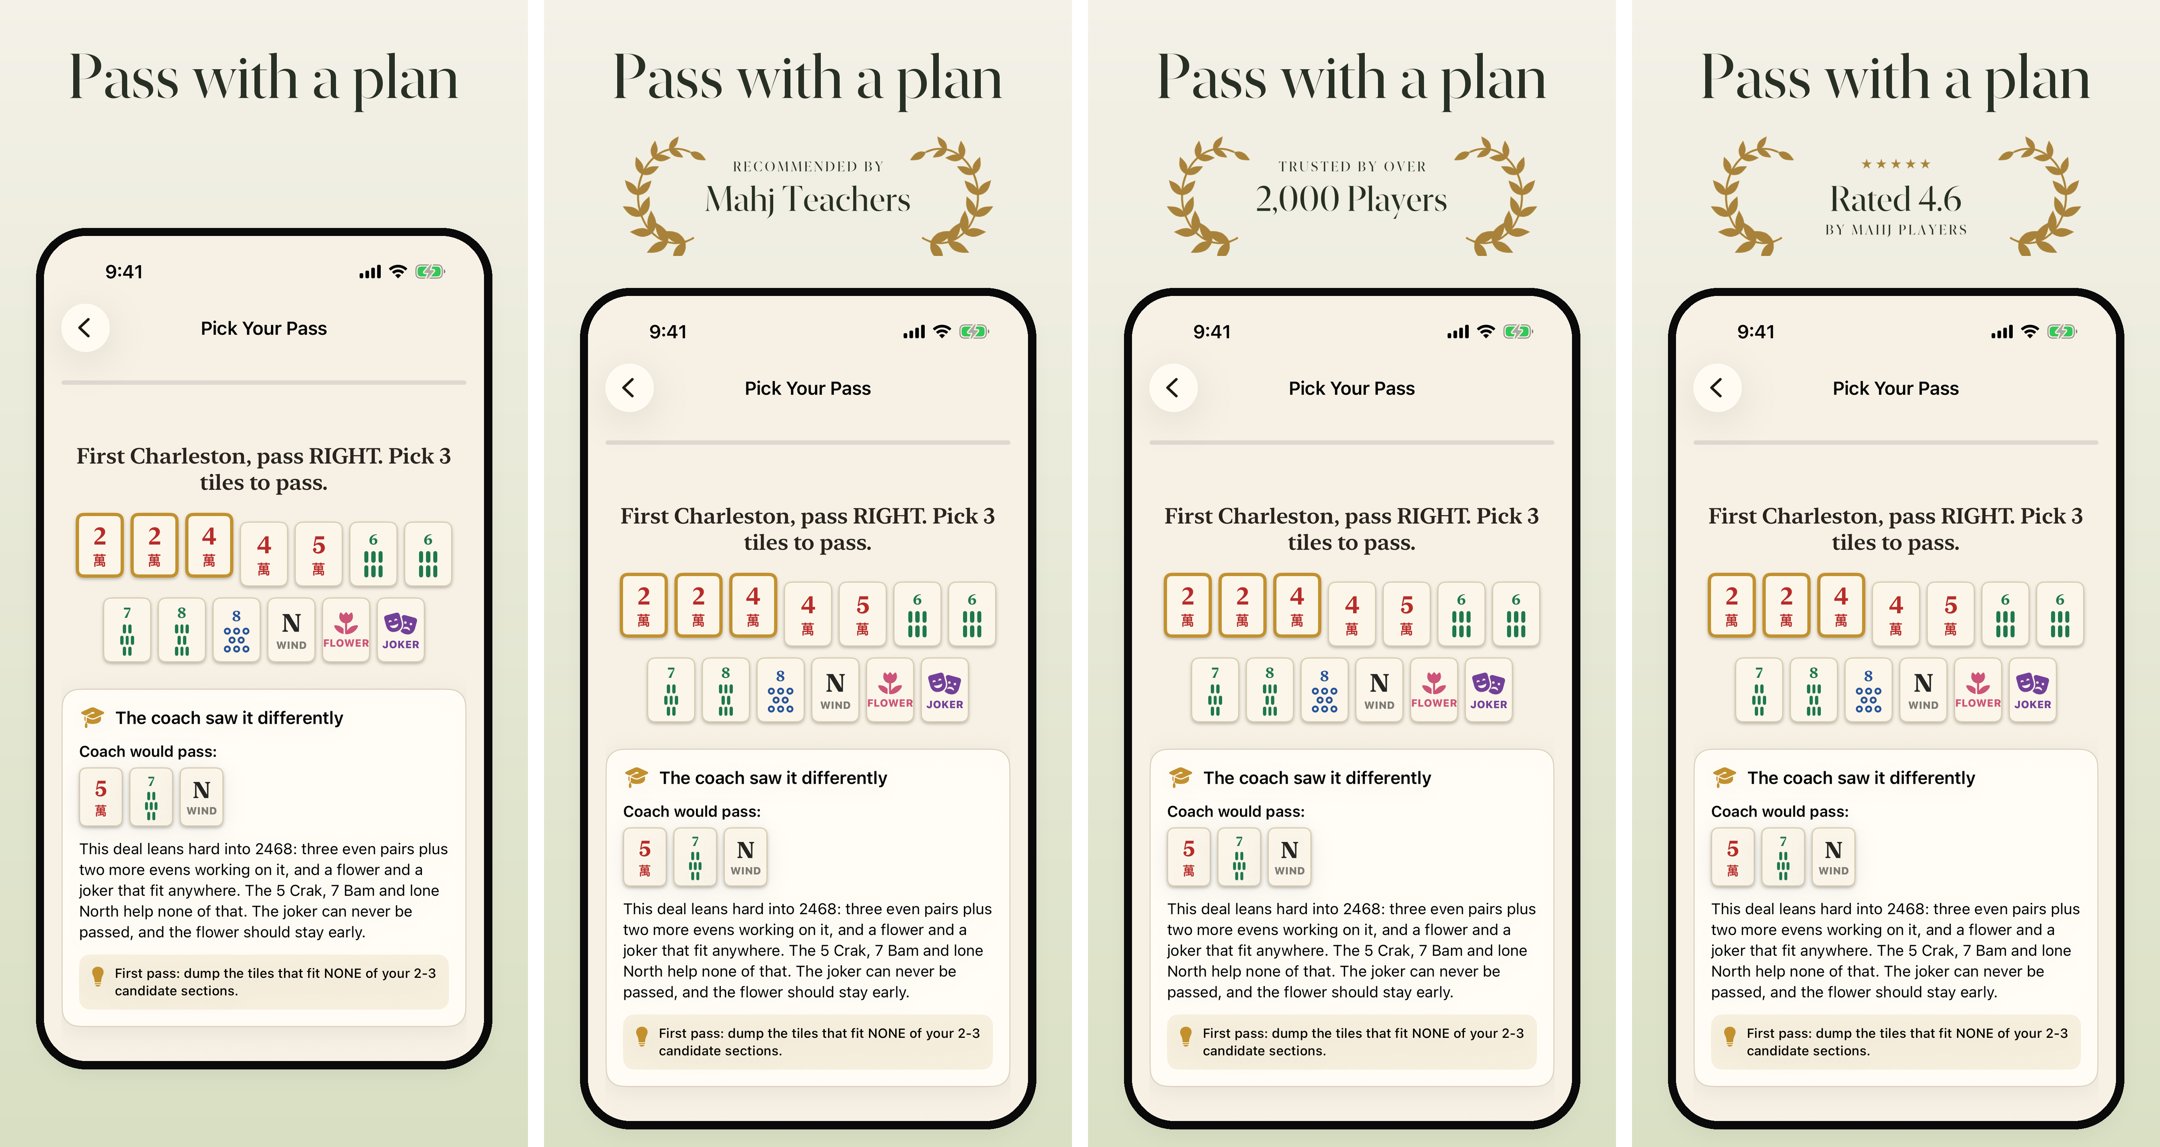
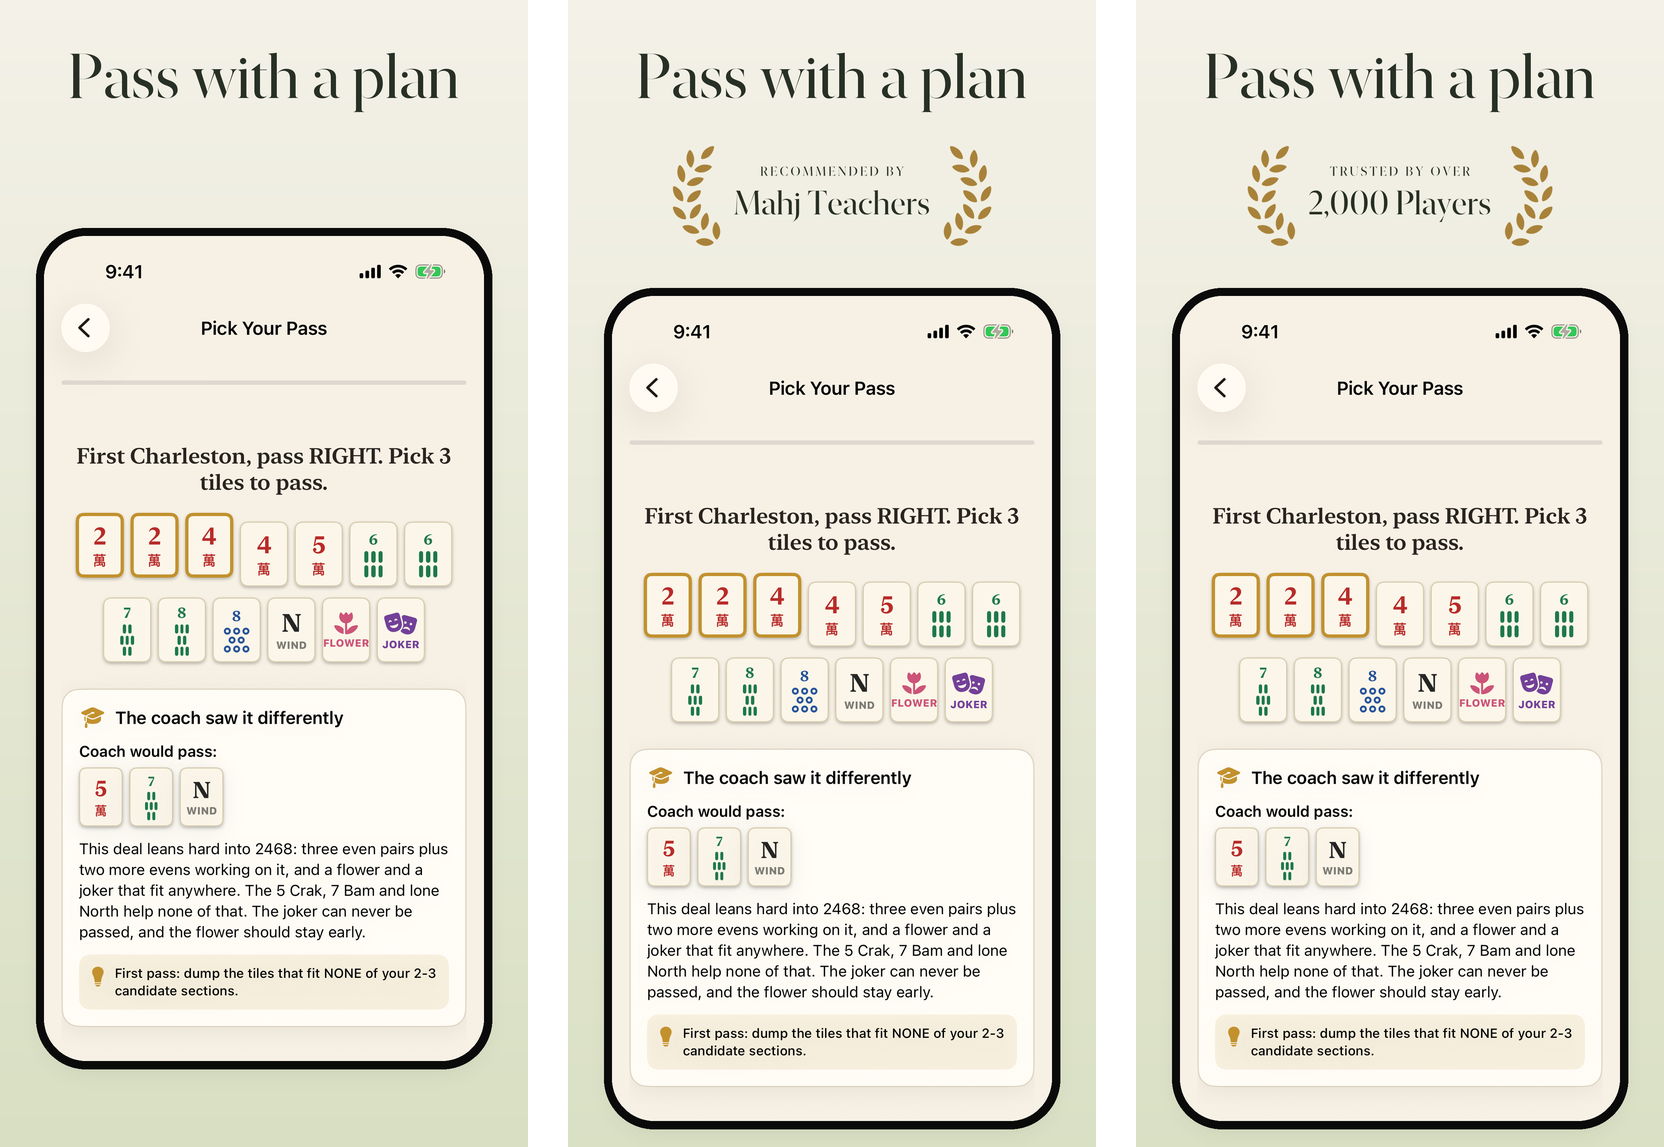
docs(ppo): redraw the Mahj laurel arms with Apple's laurel symbol, drop the rating arm

diff --git a/project-docs/ppo/laurel-2026-11/render_laurel.swift b/project-docs/ppo/laurel-2026-11/render_laurel.swift
@@ -1,0 +1,13 @@
+import AppKit
+for name in ["laurel.leading", "laurel.trailing"] {
+    let cfg = NSImage.SymbolConfiguration(pointSize: 900, weight: .regular)
+        .applying(NSImage.SymbolConfiguration(paletteColors: [NSColor(srgbRed: 168/255, green: 130/255, blue: 58/255, alpha: 1)]))
+    guard let img = NSImage(systemSymbolName: name, accessibilityDescription: nil)?.withSymbolConfiguration(cfg) else { print("missing \(name)"); continue }
+    let rep = NSBitmapImageRep(bitmapDataPlanes: nil, pixelsWide: Int(img.size.width), pixelsHigh: Int(img.size.height), bitsPerSample: 8, samplesPerPixel: 4, hasAlpha: true, isPlanar: false, colorSpaceName: .deviceRGB, bytesPerRow: 0, bitsPerPixel: 0)!
+    NSGraphicsContext.saveGraphicsState()
+    NSGraphicsContext.current = NSGraphicsContext(bitmapImageRep: rep)
+    img.draw(in: NSRect(origin: .zero, size: img.size))
+    NSGraphicsContext.restoreGraphicsState()
+    try! rep.representation(using: .png, properties: [:])!.write(to: URL(fileURLWithPath: "\(name).png"))
+    print(name, img.size)
+}

diff --git a/project-docs/ppo/laurel-2026-11/make_laurel.py b/project-docs/ppo/laurel-2026-11/make_laurel.py
@@ -1,95 +1,78 @@
-"""Laurel badge treatments for Mahj screenshot 1 (PPO test, 2026-11)."""
-import math
+"""Laurel badge treatments for Mahj screenshot 1 (PPO test, 2026-11).
 
-from PIL import Image, ImageDraw, ImageFont, ImageOps
+The branches are Apple's laurel.leading / laurel.trailing symbols in gold,
+rendered by render_laurel.swift into laurel_left.png and laurel_right.png.
+"""
+from PIL import Image, ImageDraw, ImageFont
 
 SRC = "/Users/jackwallner/mahj/fastlane/screenshots/en-US/01_pass_with_a_plan.png"
 SERIF = "/System/Library/Fonts/NewYork.ttf"
-SYMBOLS = "/System/Library/Fonts/Apple Symbols.ttf"
 INK = (38, 46, 34)
-GOLD = (168, 130, 58)
 SS = 3
 BW, BH = 1320, 300
 SHIFT = 150
 CUT = 330
+LAUREL_H = 250
+GAP = 34
 
 
-def leaf(x0, y0, ang, length, width):
-    n = 20
-    top, bot = [], []
-    for i in range(n + 1):
-        t = i / n
-        w = width / 2 * math.sin(math.pi * t ** 0.85)
-        top.append((t * length, w))
-        bot.append((t * length, -w))
-    pts = top + bot[::-1]
-    ca, sa = math.cos(ang), math.sin(ang)
-    return [(x0 + x * ca - y * sa, y0 + x * sa + y * ca) for x, y in pts]
-
-
-def left_branch(d, cx, cy):
-    ex, rx, ry = cx - 330 * SS, 95 * SS, 118 * SS
-    a0, a1 = 62, 292
-    pt = lambda a: (ex + rx * math.cos(a), cy + ry * math.sin(a))
-    tan = lambda a: math.atan2(ry * math.cos(a), -rx * math.sin(a))
-    stem = [pt(math.radians(a0 + (a1 - a0) * i / 80)) for i in range(81)]
-    d.line(stem, fill=GOLD, width=5 * SS, joint="curve")
-    pairs = 8
-    for i in range(pairs):
-        f = i / pairs
-        a = math.radians(a0 + 14 + (a1 - a0 - 20) * f)
-        x, y = pt(a)
-        size = (1.0 - 0.4 * f) * SS
-        for k in (-1, 1):
-            d.polygon(leaf(x, y, tan(a) + k * math.radians(42), 62 * size, 24 * size), fill=GOLD)
-    a = math.radians(a1)
-    x, y = pt(a)
-    d.polygon(leaf(x, y, tan(a), 44 * SS, 18 * SS), fill=GOLD)
-
-
-def spaced(d, center, text, font, fill, track):
+def spaced(d: ImageDraw.ImageDraw, center: tuple[float, float], text: str,
+           font: ImageFont.FreeTypeFont, track: float) -> float:
     widths = [d.textlength(ch, font=font) for ch in text]
     total = sum(widths) + track * (len(text) - 1)
     x = center[0] - total / 2
     for ch, w in zip(text, widths):
-        d.text((x, center[1]), ch, font=font, fill=fill, anchor="lm")
+        d.text((x, center[1]), ch, font=font, fill=INK, anchor="lm")
         x += w + track
+    return total
 
 
-def badge(top, big, stars=False):
+def laurel(path: str) -> Image.Image:
+    img = Image.open(path).convert("RGBA")
+    img = img.crop(img.getbbox())
+    h = LAUREL_H * SS
+    return img.resize((round(img.width * h / img.height), h), Image.LANCZOS)
+
+
+def badge(top: str, big: str) -> Image.Image:
     W, H = BW * SS, BH * SS
-    layer = Image.new("RGBA", (W, H), (0, 0, 0, 0))
-    left_branch(ImageDraw.Draw(layer), W / 2, H / 2)
-    img = Image.alpha_composite(layer, ImageOps.mirror(layer))
+    img = Image.new("RGBA", (W, H), (0, 0, 0, 0))
     d = ImageDraw.Draw(img)
     cx, cy = W / 2, H / 2
-    if stars:
-        fs = ImageFont.truetype(SYMBOLS, 46 * SS)
-        spaced(d, (cx, cy - 78 * SS), "★★★★★", fs, GOLD, 6 * SS)
-    else:
-        ft = ImageFont.truetype(SERIF, 34 * SS)
-        spaced(d, (cx, cy - 74 * SS), top.upper(), ft, INK, 6 * SS)
-    fb = ImageFont.truetype(SERIF, 88 * SS)
-    d.text((cx, cy + 6 * SS), big, font=fb, fill=INK, anchor="mm")
-    if stars:
-        ft = ImageFont.truetype(SERIF, 34 * SS)
-        spaced(d, (cx, cy + 84 * SS), top.upper(), ft, INK, 6 * SS)
+    ft = ImageFont.truetype(SERIF, 32 * SS)
+    fb = ImageFont.truetype(SERIF, 84 * SS)
+    top_w = spaced(d, (cx, cy - 62 * SS), top.upper(), ft, 6 * SS)
+    d.text((cx, cy + 16 * SS), big, font=fb, fill=INK, anchor="mm")
+    half = max(top_w, d.textlength(big, font=fb)) / 2 + GAP * SS
+    left, right = laurel("laurel_left.png"), laurel("laurel_right.png")
+    y = round(cy - left.height / 2)
+    img.alpha_composite(left, (round(cx - half - left.width), y))
+    img.alpha_composite(right, (round(cx + half), y))
     return img.resize((BW, BH), Image.LANCZOS)
 
 
-def compose(top, big, out, stars=False):
+def compose(top: str, big: str, out: str) -> Image.Image:
     src = Image.open(SRC).convert("RGB")
     W, H = src.size
     canvas = Image.new("RGB", (W, H))
     canvas.paste(src.crop((0, 0, W, CUT)), (0, 0))
     canvas.paste(src.crop((0, CUT, W, H - SHIFT)), (0, CUT + SHIFT))
     canvas.paste(src.crop((0, CUT, W, CUT + 1)).resize((W, SHIFT)), (0, CUT))
-    b = badge(top, big, stars)
+    b = badge(top, big)
     canvas.paste(b, (0, CUT + 10), b)
     canvas.save(out)
+    return canvas
+
+
+def side_by_side(frames: list[Image.Image], out: str) -> None:
+    w, h = frames[0].width * 2 // 5, frames[0].height * 2 // 5
+    sheet = Image.new("RGB", (w * len(frames) + 40 * (len(frames) - 1), h), "white")
+    for i, f in enumerate(frames):
+        sheet.paste(f.resize((w, h), Image.LANCZOS), (i * (w + 40), 0))
+    sheet.save(out)
 
 
 if __name__ == "__main__":
-    compose("Recommended by", "Mahj Teachers", "teacher.png")
-    compose("by mahj players", "Rated 4.6", "rating.png", stars=True)
-    compose("Trusted by over", "2,000 Players", "players.png")
+    teacher = compose("Recommended by", "Mahj Teachers", "teacher.png")
+    players = compose("Trusted by over", "2,000 Players", "players.png")
+    side_by_side([Image.open(SRC).convert("RGB"), teacher, players], "arms.png")

diff --git a/project-docs/README.md b/project-docs/README.md
@@ -52,4 +52,4 @@ Developer notes and historical audits for this repository. The published site re
 ## ASO
 
 - [aso/README.md](aso/README.md): App Store search and conversion metadata audits
-- [ppo/laurel-2026-11/](ppo/laurel-2026-11/): laurel badge arms for screenshot 1 (teacher recommended, 2,000 players, 4.6 rating) and the script that renders them
+- [ppo/laurel-2026-11/](ppo/laurel-2026-11/): laurel badge arms for screenshot 1 (teacher recommended, 2,000 players) and the script that renders them
